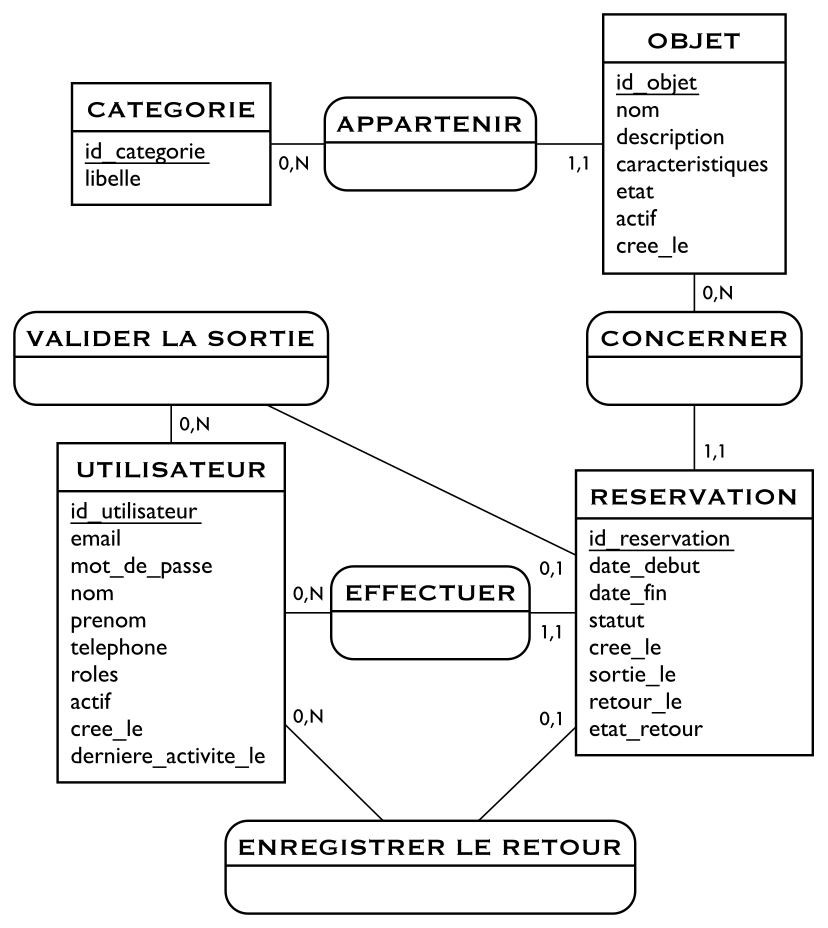
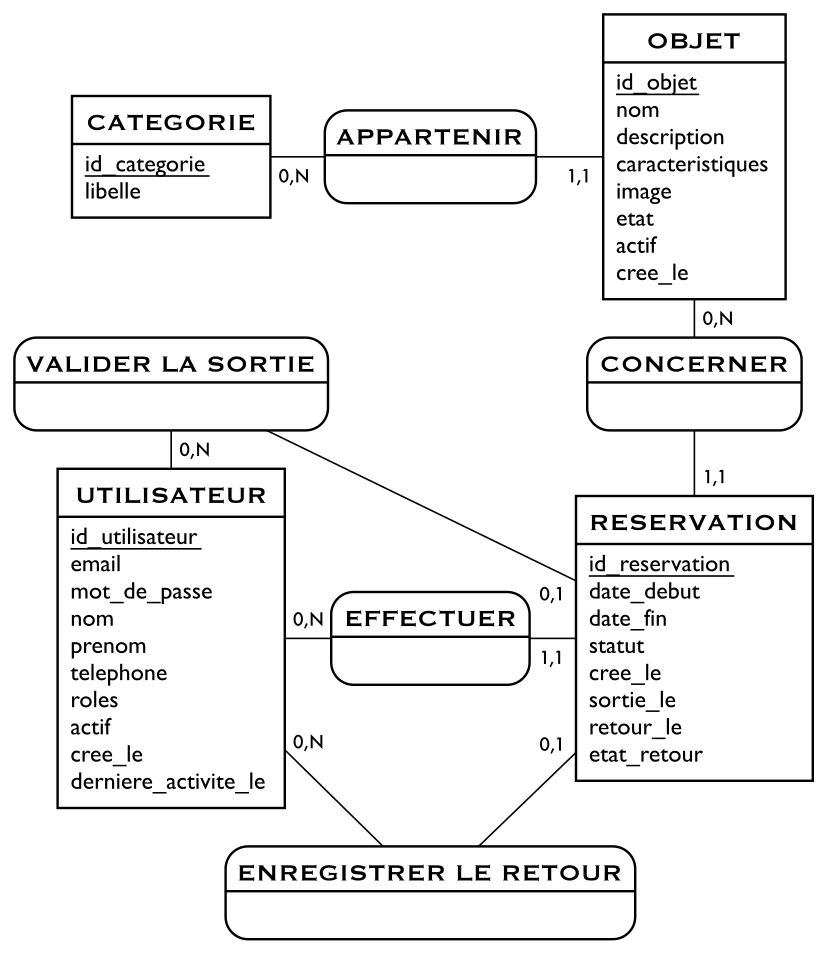
docs(conception): ajouter la colonne image au modèle de données
Le MCD, le MPD et le dictionnaire doivent décrire le schéma réellement migré.

diff --git a/docs/conception/dictionnaire-donnees.md b/docs/conception/dictionnaire-donnees.md
@@ -43,6 +43,7 @@ Article physique prêté par l'association.
 | `nom` | VARCHAR(120) | Oui | | | Nom affiché | US3, US6 | |
 | `description` | TEXT | Oui | | | Description courte | US3, US6 | |
 | `caracteristiques` | TEXT | Non | | | Caractéristiques détaillées (écran Détail) | US4 | |
+| `image` | VARCHAR(100) | Non | | nom simple en `.webp` (`^[a-z0-9-]+\.webp$`) | Photo de l'objet dans `assets/images/objets/` ; absente : vignette de remplacement | US3, US4 | |
 | `etat` | VARCHAR(20) | Oui | `bon` | `bon`, `abime`, `hors_service` | État physique ; `hors_service` rend l'objet non réservable | RG5, RG7 | |
 | `actif` | BOOLEAN | Oui | `true` | | Faux : retiré du catalogue (suppression logique) | RG5, US6 | |
 | `cree_le` | TIMESTAMP(0) | Oui | maintenant | | Date d'ajout au catalogue (UTC) | | |

diff --git a/docs/conception/mcd.md b/docs/conception/mcd.md
@@ -90,7 +90,7 @@ Sa structure est décrite avec le MPD (ticket [#2](https://github.com/IamArayel/
 Le MLD généré par Mocodo (`mocodo --input mcd.mcd -t mld`) donne :
 
 - **CATEGORIE** (<u>id_categorie</u>, libelle)
-- **OBJET** (<u>id_objet</u>, nom, description, caracteristiques, etat, actif, cree_le, _#id_categorie_)
+- **OBJET** (<u>id_objet</u>, nom, description, caracteristiques, image, etat, actif, cree_le, _#id_categorie_)
 - **RESERVATION** (<u>id_reservation</u>, date_debut, date_fin, statut, cree_le, sortie_le, retour_le, etat_retour, _#id_utilisateur adhérent_, _#id_objet_, _#id_utilisateur gestionnaire 1_, _#id_utilisateur gestionnaire 2_)
 - **UTILISATEUR** (<u>id_utilisateur</u>, email, mot_de_passe, nom, prenom, telephone, roles, actif, cree_le, derniere_activite_le)
 
